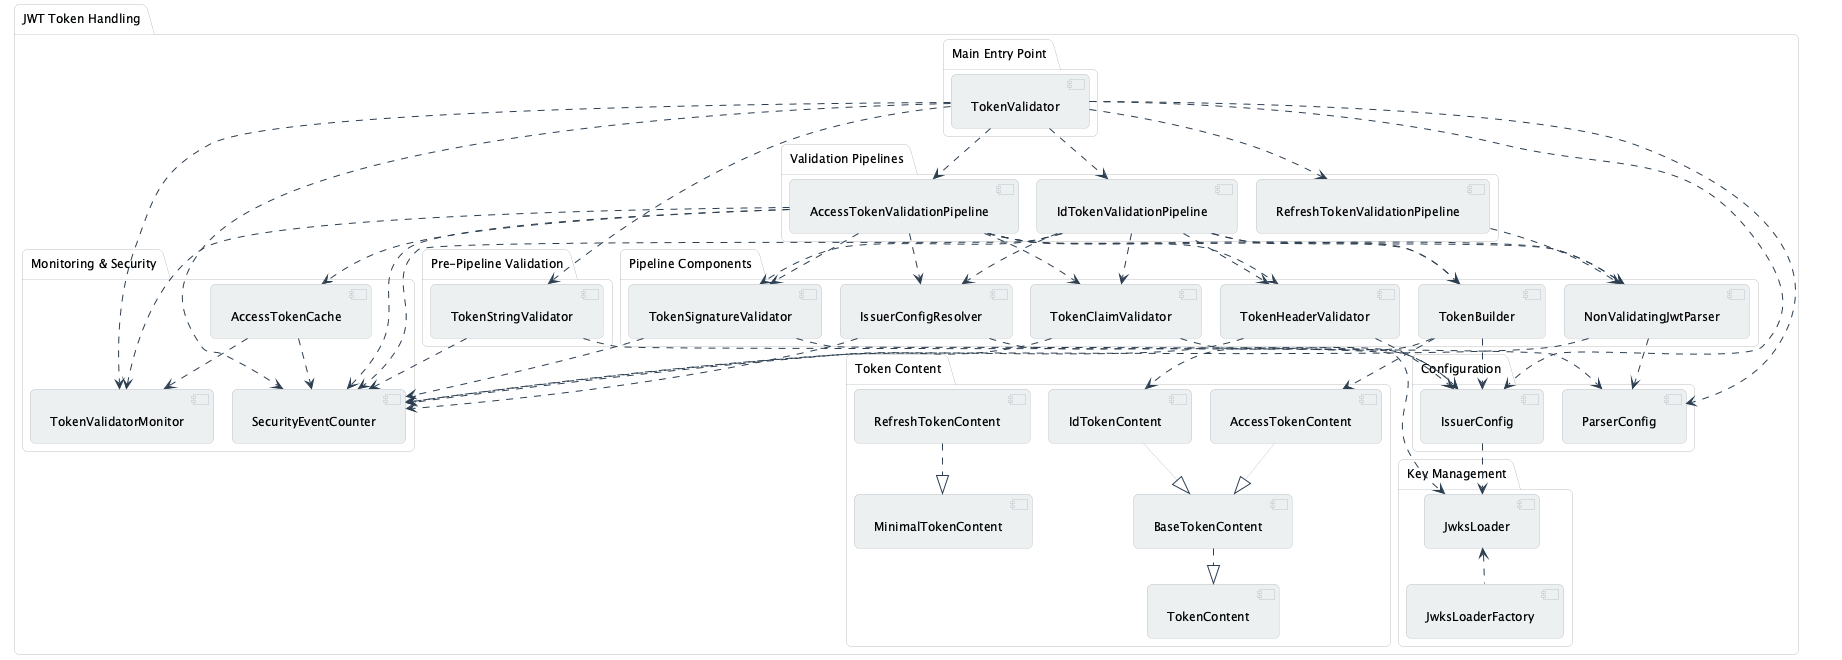
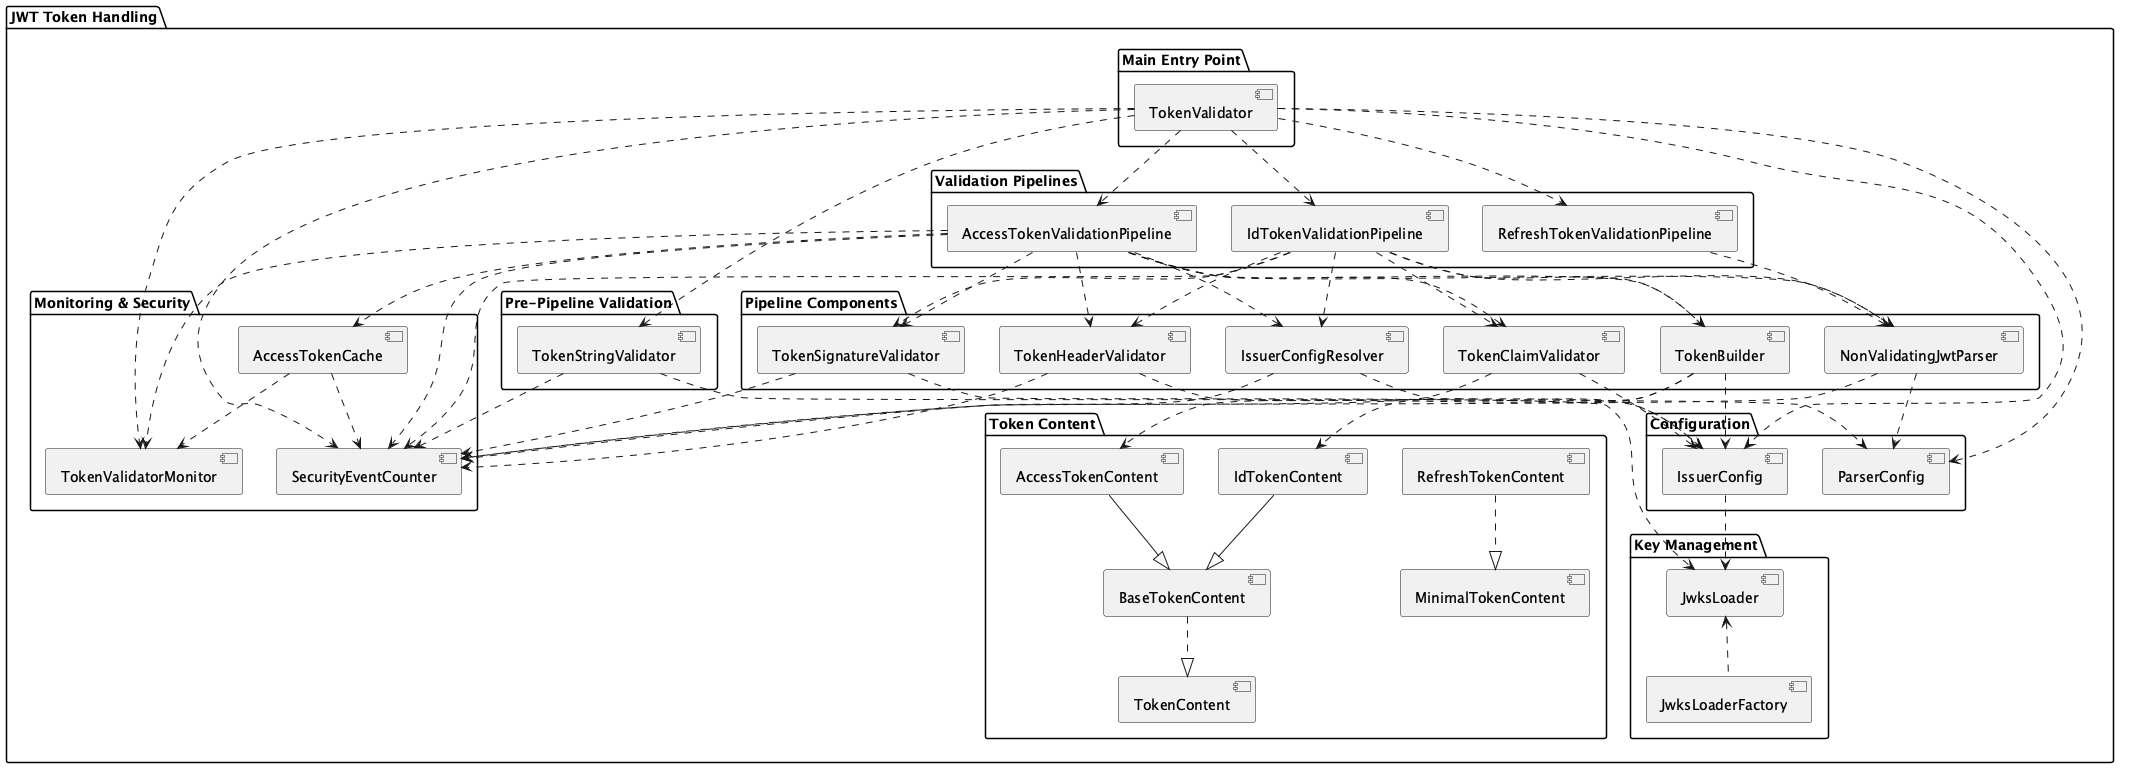
docs: Remove custom PlantUML skin and use defaults
Task 1 completed: Remove existing skin
- Deleted plantuml.skin (97 lines)
- Removed !include statements from all 6 .puml files
- Verified all diagrams render correctly with PlantUML defaults
- Documented visual verification results in plan.md

All diagrams now use clean, standard PlantUML styling:
- component-overview.png: 26 components, clear layout
- key-management.png: Sequence diagram with 3 sections
- multi-issuer-support.png: Complex component relationships
- threat-model-dataflow.png: Security dataflow
- token-structure.png: JWT structure
- token-types.png: Class hierarchy

Default styling is professional and readable - no custom skin needed yet.

🤖 Generated with [Claude Code](https://claude.com/claude-code)

diff --git a/doc/plantuml/plan.md b/doc/plantuml/plan.md
@@ -165,5 +165,52 @@
 
 ## Progress Log
 
-### [Date] - [Task] - [Status]
-(To be filled in as work progresses)
+### 2025-10-16 - Task 1: Remove Existing Skin - COMPLETED
+
+**Status:** ✅ All sub-tasks completed
+
+**Changes Made:**
+- Deleted `plantuml.skin` (97 lines removed)
+- Removed `!include plantuml.skin` from all 6 .puml files
+
+**Visual Verification Results:**
+
+1. **component-overview.png** ✅
+   - All 26 components render correctly with default PlantUML styling
+   - Clean layout with proper boxes and labels
+   - Package groupings visible and clear
+   - White backgrounds, black borders, readable text
+
+2. **key-management.png** ✅
+   - Sequence diagram renders correctly
+   - All 3 sections visible (Initialization, Key Retrieval, Rotation)
+   - Database icons render properly with <<in-memory>> stereotypes
+   - Activation boxes, notes, and dividers all clear
+   - Good vertical spacing
+
+3. **multi-issuer-support.png** ✅
+   - Complex component diagram renders correctly
+   - All issuer configs, JWKS loaders, and connections visible
+   - Cloud shapes for Identity Provider render properly
+   - Notes with yellow background visible
+
+4. **threat-model-dataflow.png** ✅
+   - Security dataflow diagram renders correctly
+   - Actors, components, and cloud boundaries all visible
+   - Attack vectors labeled clearly
+   - Good use of default styling
+
+5. **token-structure.png** ✅
+   - JWT structure diagram renders perfectly
+   - Header, Payload, Signature sections all clear
+   - Notes with Base64 encoding details visible
+   - Clean, professional appearance
+
+6. **token-types.png** ✅
+   - Class diagram renders correctly
+   - All interfaces and classes visible with proper stereotypes
+   - Inheritance and implementation relationships clear
+   - Method signatures readable
+   - Green circles for classes, purple circles for interfaces
+
+**Conclusion:** PlantUML default styling is actually quite good! Clean, professional, readable. All diagrams work perfectly without custom skin.
